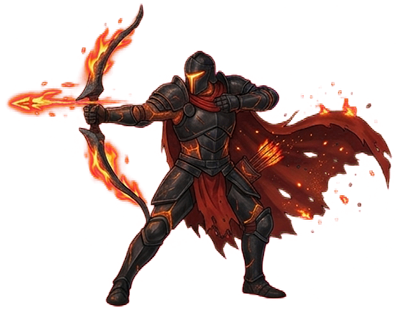
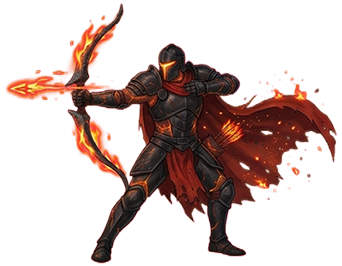
Flame Archer: new attack sprite size, feet shift re-aligned
Claude-Session: https://claude.ai/code/session_01W4v7cyzS6Fr8aMVaGgywWE

diff --git a/js/ui.js b/js/ui.js
@@ -286,7 +286,7 @@ const MONSTER_SPRITES = {
         hurt: ['assets/combat/flamearcher/flamearcherdamaged.png'],
         dead: ['assets/combat/flamearcher/flamearcherdead.png'],
         deathMs: 600,
-        shift: { 'assets/combat/flamearcher/flamearcherattack.png': [6, 4], 'assets/combat/flamearcher/flamearcherdamaged.png': [0, 5], 'assets/combat/flamearcher/flamearcherdead.png': [0, 2] }
+        shift: { 'assets/combat/flamearcher/flamearcherattack.png': [-6, 4], 'assets/combat/flamearcher/flamearcherdamaged.png': [0, 5], 'assets/combat/flamearcher/flamearcherdead.png': [0, 2] }
     },
     M069: { // Ember Priest: natural size, own art; shift is [dx, dy] px so the feet stay on the same spot
         idle: ['assets/combat/emberpriest/emberpriest.png'],
